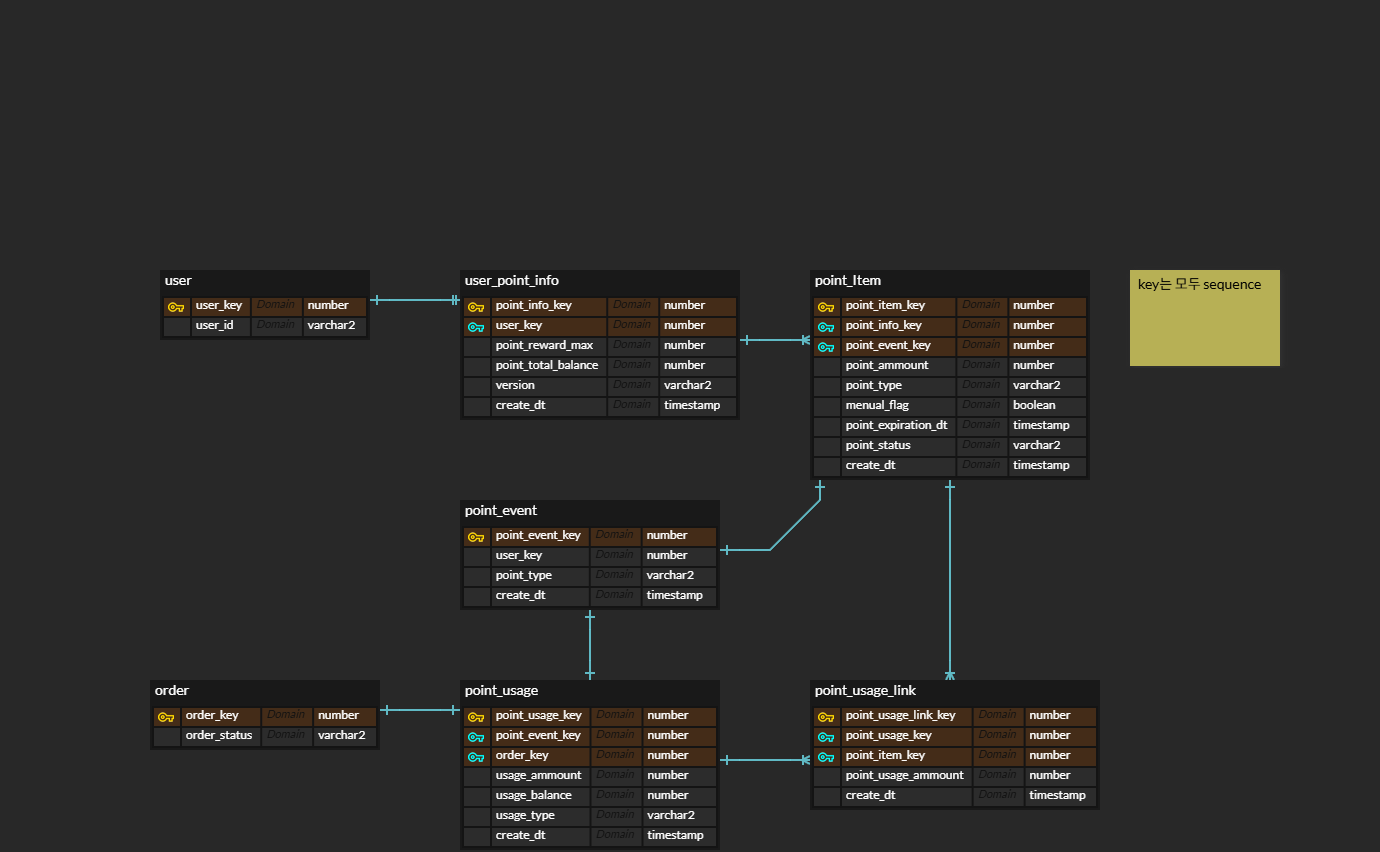
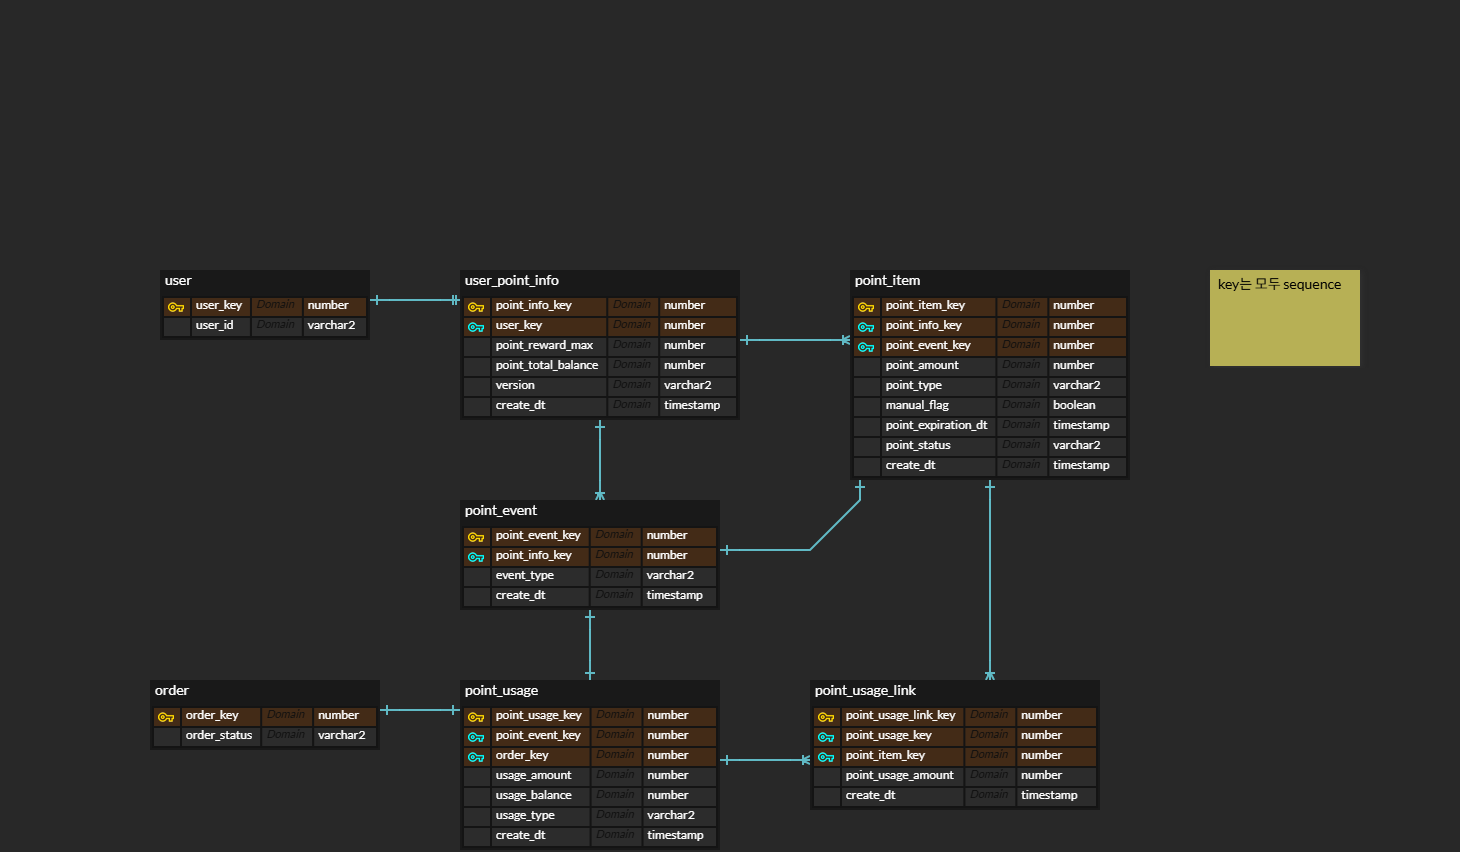
erd update, enums, repo, entity 초기버전

diff --git a/src/main/java/com/musinsa/point/entity/PointItem.java b/src/main/java/com/musinsa/point/entity/PointItem.java
@@ -1,0 +1,46 @@
+package com.musinsa.point.entity;
+
+import jakarta.persistence.*;
+
+import java.time.LocalDateTime;
+
+@Entity
+@Table(name = "point_item")
+public class PointItem extends DateEntity{
+    @Id
+    @GeneratedValue(strategy = GenerationType.IDENTITY)
+    @Column(name = "point_item_key")
+    private String pointItemKey;
+
+    @ManyToOne(fetch = FetchType.LAZY, optional = false)
+    @JoinColumn(name = "point_info_key", nullable = false
+                , foreignKey = @ForeignKey(name = "fk_point_info_key"))
+    private UserPointInfo userPointInfo;
+
+    @OneToOne(fetch = FetchType.LAZY, optional = false)
+    @JoinColumn(name = "point_event_key", nullable = false
+                , foreignKey = @ForeignKey(name = "fk_point_event_key"))
+    private PointEvent pointEvent;
+
+    @Column(name = "point_amount")
+    private Long pointAmount = 0L;
+
+    @Enumerated(EnumType.STRING)
+    @Column(name = "point_type")
+    private String pointType;
+
+    @Column(name = "manual_flag")
+    private boolean menualFlag = false;
+
+    @Column(name = "point_expiration_dt")
+    private LocalDateTime pointExpirationDt;
+
+    @Enumerated(EnumType.STRING)
+    @Column(name = "point_status")
+    private String pointStatus;
+
+
+
+}
+
+

diff --git a/src/main/java/com/musinsa/point/entity/PointUsage.java b/src/main/java/com/musinsa/point/entity/PointUsage.java
@@ -1,0 +1,32 @@
+package com.musinsa.point.entity;
+
+import jakarta.persistence.*;
+
+@Entity
+@Table(name = "point_usage")
+public class PointUsage extends DateEntity{
+    @Id
+    @GeneratedValue(strategy = GenerationType.IDENTITY)
+    @Column(name = "point_usage_key")
+    private Long pointUsageKey;
+
+    @OneToOne(fetch = FetchType.LAZY, optional = false)
+    @JoinColumn(name = "point_event_key", nullable = false
+            , foreignKey = @ForeignKey(name = "fk_point_event_key"))
+    private PointEvent pointEvent;
+
+    @OneToOne(fetch = FetchType.LAZY, optional = false)
+    @JoinColumn(name = "order_key", nullable = false
+            , foreignKey = @ForeignKey(name = "fk_order_key"))
+    private Order order;
+
+    @Column(name = "usage_amount")
+    private Long usageAmount = 0L;
+
+    @Column(name = "usage_balance")
+    private Long usage_balance = 0L;
+
+    @Enumerated(EnumType.STRING)
+    @Column(name = "usage_type")
+    private String usageType;
+}

diff --git a/src/main/java/com/musinsa/point/entity/UserPointInfo.java b/src/main/java/com/musinsa/point/entity/UserPointInfo.java
@@ -1,0 +1,35 @@
+package com.musinsa.point.entity;
+
+import jakarta.persistence.*;
+import org.springframework.data.annotation.CreatedDate;
+import org.springframework.data.annotation.Id;
+
+import java.time.LocalDateTime;
+
+@Entity
+@Table(name = "user_point_info")
+public class UserPointInfo extends DateEntity{
+
+    @Id
+    @GeneratedValue(strategy = GenerationType.IDENTITY)
+    @Column(name = "point_info_key")
+    private Long pointInfoKey;
+
+    @OneToOne(fetch = FetchType.LAZY, optional = false)
+    @JoinColumn(name = "user_key", unique = true, nullable = false
+                , foreignKey = @ForeignKey(name = "fk_user_key"))
+    private User user;
+
+    @Column(name = "point_reward_max")
+    private Long pointRewardMax = 10_000L;
+
+    @Column(name = "point_total_balance")
+    private Long pointTotalBalance = 0L;
+
+    @Version
+    @Column(name = "version")
+    private String version;
+
+
+
+}

diff --git a/src/main/java/com/musinsa/point/entity/PointUsageLink.java b/src/main/java/com/musinsa/point/entity/PointUsageLink.java
@@ -1,0 +1,27 @@
+package com.musinsa.point.entity;
+
+import jakarta.persistence.*;
+
+@Entity
+@Table(name = "point_usage_link")
+public class PointUsageLink extends DateEntity{
+
+    @Id
+    @GeneratedValue(strategy = GenerationType.IDENTITY)
+    @Column(name = "point_usage_link_key")
+    private Long pointUsageLinkKey;
+
+    @ManyToOne(fetch = FetchType.LAZY, optional = false)
+    @JoinColumn(name = "point_usage_key", nullable = false
+                , foreignKey = @ForeignKey(name = "fk_point_usage_key"))
+    private PointUsage pointUsage;
+
+    @ManyToOne(fetch = FetchType.LAZY, optional = false)
+    @JoinColumn(name = "point_item_key", nullable = false
+                , foreignKey = @ForeignKey(name = "fk_point_item_key"))
+    private PointItem pointItem;
+
+    @Column(name = "point_usage_amount")
+    private Long pointUsageAmount = 0L;
+
+}

diff --git a/src/main/java/com/musinsa/point/entity/PointEvent.java b/src/main/java/com/musinsa/point/entity/PointEvent.java
@@ -1,0 +1,22 @@
+package com.musinsa.point.entity;
+
+import jakarta.persistence.*;
+
+@Entity
+@Table(name = "point_event")
+public class PointEvent extends DateEntity{
+
+    @Id
+    @GeneratedValue(strategy = GenerationType.IDENTITY)
+    @Column(name = "point_event_key")
+    private Long pointEventKey;
+
+    @ManyToOne(fetch = FetchType.LAZY, optional = false)
+    @JoinColumn(name = "point_info_key", nullable = false
+                , foreignKey = @ForeignKey(name = "fk_point_info_key"))
+    private UserPointInfo userPointInfo;
+
+    @Enumerated(EnumType.STRING)
+    @Column(name = "event_type")
+    private String eventType;
+}

diff --git a/src/main/java/com/musinsa/point/entity/DateEntity.java b/src/main/java/com/musinsa/point/entity/DateEntity.java
@@ -1,0 +1,17 @@
+package com.musinsa.point.entity;
+
+import jakarta.persistence.Column;
+import jakarta.persistence.EntityListeners;
+import lombok.Data;
+import org.springframework.data.annotation.CreatedDate;
+import org.springframework.data.jpa.domain.support.AuditingEntityListener;
+
+import java.time.LocalDateTime;
+
+@EntityListeners(AuditingEntityListener.class)
+@Data
+public abstract class DateEntity {
+    @CreatedDate
+    @Column(name = "create_dt", nullable = false)
+    private LocalDateTime createDt;
+}

diff --git a/src/main/java/com/musinsa/point/entity/Order.java b/src/main/java/com/musinsa/point/entity/Order.java
@@ -1,0 +1,16 @@
+package com.musinsa.point.entity;
+
+import jakarta.persistence.*;
+
+@Entity
+@Table(name = "orders")
+public class Order extends DateEntity{
+    @Id
+    @GeneratedValue(strategy = GenerationType.IDENTITY)
+    @Column(name = "order_key")
+    private Long orderKey;
+
+    @Enumerated(EnumType.STRING)
+    @Column(name = "order_status")
+    private String orderStatus;
+}

diff --git a/src/main/java/com/musinsa/point/entity/User.java b/src/main/java/com/musinsa/point/entity/User.java
@@ -1,0 +1,15 @@
+package com.musinsa.point.entity;
+
+import jakarta.persistence.*;
+
+@Entity
+@Table(name = "user")
+public class User extends DateEntity{
+    @Id
+    @GeneratedValue(strategy = GenerationType.IDENTITY)
+    @Column(name = "user_key")
+    private Long userNo;
+
+    @Column(name = "user_id", unique = true, nullable = false)
+    private String userId;
+}

diff --git a/src/main/java/com/musinsa/point/PointApplication.java b/src/main/java/com/musinsa/point/PointApplication.java
@@ -2,8 +2,10 @@ package com.musinsa.point;
 
 import org.springframework.boot.SpringApplication;
 import org.springframework.boot.autoconfigure.SpringBootApplication;
+import org.springframework.data.jpa.repository.config.EnableJpaAuditing;
 
 @SpringBootApplication
+@EnableJpaAuditing
 public class PointApplication {
 
 	public static void main(String[] args) {

diff --git a/src/main/java/com/musinsa/point/repository/PointUsageLinkRepository.java b/src/main/java/com/musinsa/point/repository/PointUsageLinkRepository.java
@@ -1,0 +1,9 @@
+package com.musinsa.point.repository;
+
+import com.musinsa.point.entity.PointUsageLink;
+import org.springframework.data.jpa.repository.JpaRepository;
+import org.springframework.stereotype.Repository;
+
+@Repository
+public interface PointUsageLinkRepository extends JpaRepository<PointUsageLink, Long> {
+}

diff --git a/src/main/java/com/musinsa/point/repository/UserPointRepository.java b/src/main/java/com/musinsa/point/repository/UserPointRepository.java
@@ -1,0 +1,9 @@
+package com.musinsa.point.repository;
+
+import com.musinsa.point.entity.UserPointInfo;
+import org.springframework.data.jpa.repository.JpaRepository;
+import org.springframework.stereotype.Repository;
+
+@Repository
+public interface UserPointRepository extends JpaRepository<UserPointInfo, Long> {
+}

diff --git a/src/main/java/com/musinsa/point/repository/PointEventRepository.java b/src/main/java/com/musinsa/point/repository/PointEventRepository.java
@@ -1,0 +1,9 @@
+package com.musinsa.point.repository;
+
+import com.musinsa.point.entity.PointEvent;
+import org.springframework.data.jpa.repository.JpaRepository;
+import org.springframework.stereotype.Repository;
+
+@Repository
+public interface PointEventRepository extends JpaRepository<PointEvent, Long> {
+}
